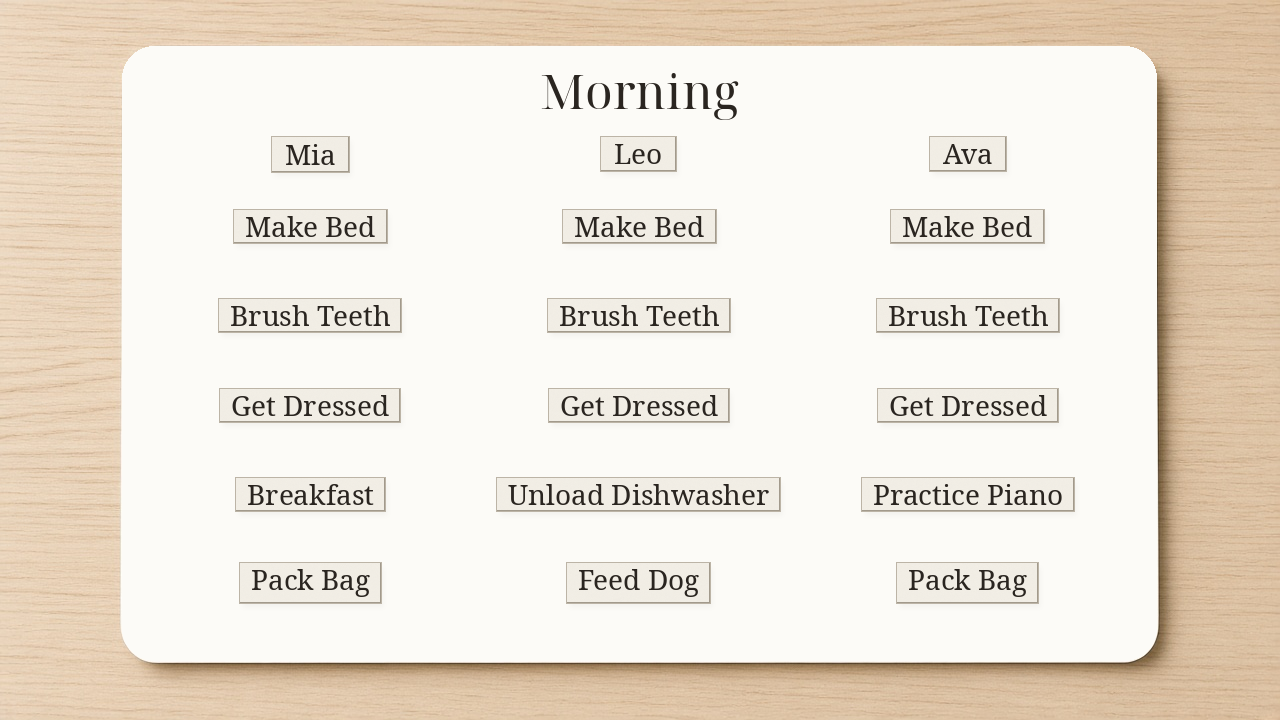
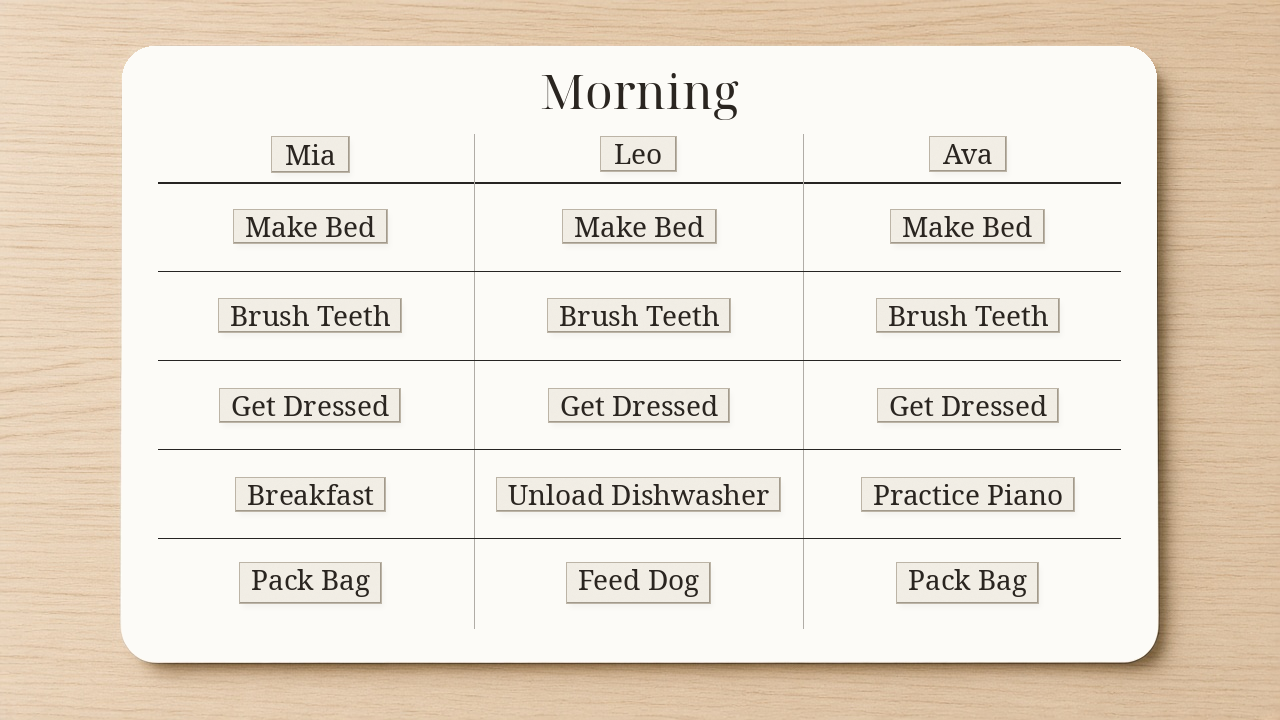
Add Routines grids, named alts, and 4-row Chores default
Printed header/column/row lines on Morning, Afternoon, and Night. Alt text names Mia, Leo and Ava (and first N on Chores/Weekly variants). Chores defaults to 4 name rows.

Changed region(s): [[0.625, 0.2444, 0.6562, 0.275], [0.3438, 0.2444, 0.375, 0.275]]

diff --git a/chores.html b/chores.html
@@ -31,11 +31,11 @@
   <main class="wrap product product-chores">
     <div>
       <div id="hero-stage" class="board-stage photo-stage mount-magnetic size-a4" role="region" aria-label="Chores.">
-        <figure id="board-hero" class="hero-photo-frame board-a4 mount-magnetic" data-lines="3">
-          <img src="images/chores-hero-photo.png?v=2.76" width="1280" height="720" alt="White ferrous weekly chores board on light wood, same width as the Routines picture. Magnetic day words Mon through Sun; name tiles on the left; title-case chore tiles from the 17-word pack sitting in the day cells.">
+        <figure id="board-hero" class="hero-photo-frame board-a4 mount-magnetic" data-lines="4">
+          <img src="images/chores-hero-photo-4-lines.png?v=2.76" width="1280" height="720" alt="White ferrous weekly chores board on light wood, same width as the Routines picture. Magnetic day words Mon through Sun; name tiles Mia, Leo, Ava and Sam on the left; title-case chore tiles from the 17-word pack sitting in the day cells.">
         </figure>
       </div>
-      <p id="hero-caption">3 name rows · A4</p>
+      <p id="hero-caption">4 name rows · A4</p>
     </div>
     <aside class="buy-panel">
       <p class="kicker">Board</p>
@@ -52,7 +52,7 @@
       </fieldset>
 
       <div class="price-row">
-        <span id="config-now" class="muted">3 name rows · A4</span>
+        <span id="config-now" class="muted">4 name rows · A4</span>
         <strong id="price-now">$15</strong>
       </div>
       <button class="btn" id="add-board" type="button">Add to cart</button>

diff --git a/js/store.js b/js/store.js
@@ -78,19 +78,19 @@
         morning: {
           title: "Morning",
           photo: "images/morning-hero.png?v=2.76",
-          alt: "White magnetic Morning board on light wood. Title Morning at the top; name tiles and job tiles in title case.",
+          alt: "White magnetic Morning board on light wood. Title Morning at the top; name tiles Mia, Leo and Ava above the three columns; job tiles in title case.",
           blurb: "Title Morning at the top. One column per person — stack the job tiles underneath."
         },
         afternoon: {
           title: "Afternoon",
           photo: "images/afternoon-hero.png?v=2.76",
-          alt: "White magnetic Afternoon board on light wood. Title Afternoon at the top; name tiles and job tiles in title case.",
+          alt: "White magnetic Afternoon board on light wood. Title Afternoon at the top; name tiles Mia, Leo and Ava above the three columns; job tiles in title case.",
           blurb: "Title Afternoon at the top. One column per person — stack the job tiles underneath."
         },
         night: {
           title: "Night",
           photo: "images/night-hero.png?v=2.76",
-          alt: "White magnetic Night board on light wood. Title Night at the top; name tiles and job tiles in title case.",
+          alt: "White magnetic Night board on light wood. Title Night at the top; name tiles Mia, Leo and Ava above the three columns; job tiles in title case.",
           blurb: "Title Night at the top. One column per person — stack the job tiles underneath."
         }
       }

diff --git a/js/chores.js b/js/chores.js
@@ -9,17 +9,28 @@
   };
 
   function photoSrc(lines) {
-    return PHOTO_BY_LINES[lines] || PHOTO_BY_LINES[3];
+    return PHOTO_BY_LINES[lines] || PHOTO_BY_LINES[4];
+  }
+
+  var NAMES = ["Mia", "Leo", "Ava", "Sam", "Zoe", "Max", "Ruby"];
+
+  function nameList(n) {
+    var names = NAMES.slice(0, n);
+    if (names.length <= 1) return names.join("");
+    if (names.length === 2) return names[0] + " and " + names[1];
+    return names.slice(0, -1).join(", ") + " and " + names[names.length - 1];
   }
 
   function photoAlt(lines) {
     return (
-      "White ferrous weekly chores board on light wood, same width as the Routines picture. Magnetic day words Mon through Sun; name tiles on the left; title-case chore tiles from the 17-word pack sitting in the day cells."
+      "White ferrous weekly chores board on light wood, same width as the Routines picture. Magnetic day words Mon through Sun; name tiles " +
+      nameList(lines) +
+      " on the left; title-case chore tiles from the 17-word pack sitting in the day cells."
     );
   }
 
   var state = {
-    lines: 3,
+    lines: 4,
     size: "A4",
     mount: "magnetic"
   };

diff --git a/js/photo-board.js b/js/photo-board.js
@@ -90,8 +90,15 @@
       }
       if (product.photosByPeople && img && state.people) {
         img.src = product.photosByPeople[state.people] || product.photo;
+        var names = ["Mia", "Leo", "Ava", "Sam", "Zoe"].slice(0, state.people);
+        var named =
+          names.length === 2
+            ? names[0] + " and " + names[1]
+            : names.slice(0, -1).join(", ") + " and " + names[names.length - 1];
         img.alt =
-          "White magnetic weekly sheet on light wood, same width as the Routines picture. Mon–Sun day tiles as rows; name tiles across the top; empty cells for writing in with the pen.";
+          "White magnetic weekly sheet on light wood, same width as the Routines picture. Mon–Sun day tiles as rows; name tiles " +
+          named +
+          " across the top; empty cells for writing in with the pen.";
       }
       if (titleEl) titleEl.textContent = displayName();
       if (blurbEl && current && current.blurb) blurbEl.textContent = current.blurb;

diff --git a/weekly.html b/weekly.html
@@ -32,7 +32,7 @@
     <div>
       <div id="hero-stage" class="board-stage photo-stage mount-magnetic size-a4" role="region" aria-label="Weekly board on light wood.">
         <figure id="board-hero" class="hero-photo-frame board-a4 mount-magnetic">
-          <img src="images/weekly-hero.png?v=2.76" width="1280" height="720" alt="White magnetic weekly sheet on light wood, same width as the Routines picture. Mon–Sun day tiles as rows; name tiles across the top; empty cells for writing in with the pen.">
+          <img src="images/weekly-hero.png?v=2.76" width="1280" height="720" alt="White magnetic weekly sheet on light wood, same width as the Routines picture. Mon–Sun day tiles as rows; name tiles Mia, Leo and Ava across the top; empty cells for writing in with the pen.">
         </figure>
       </div>
       <p id="hero-caption">3 people · A4</p>

diff --git a/routines.html b/routines.html
@@ -32,7 +32,7 @@
     <div>
       <div id="hero-stage" class="board-stage photo-stage mount-magnetic size-a4" role="region" aria-label="Routine board on light wood.">
         <figure id="board-hero" class="hero-photo-frame board-a4 mount-magnetic" data-daypart="morning">
-          <img src="images/morning-hero.png?v=2.76" width="1280" height="720" alt="White magnetic Morning board on light wood. Title Morning at the top; name tiles and job tiles in title case.">
+          <img src="images/morning-hero.png?v=2.76" width="1280" height="720" alt="White magnetic Morning board on light wood. Title Morning at the top; name tiles Mia, Leo and Ava above the three columns; job tiles in title case.">
         </figure>
       </div>
       <p id="hero-caption">Morning · A4</p>

diff --git a/index.html b/index.html
@@ -34,7 +34,7 @@
     <div class="grid">
       <a class="card" href="chores.html">
         <div class="thumb thumb-board" aria-hidden="true">
-          <img src="images/chores-hero-photo.png?v=2.76" width="1280" height="720" alt="">
+          <img src="images/chores-hero-photo-4-lines.png?v=2.76" width="1280" height="720" alt="">
         </div>
         <h3>Chores</h3>
         <p class="muted">Name rows on a weekly grid. A4.</p>
